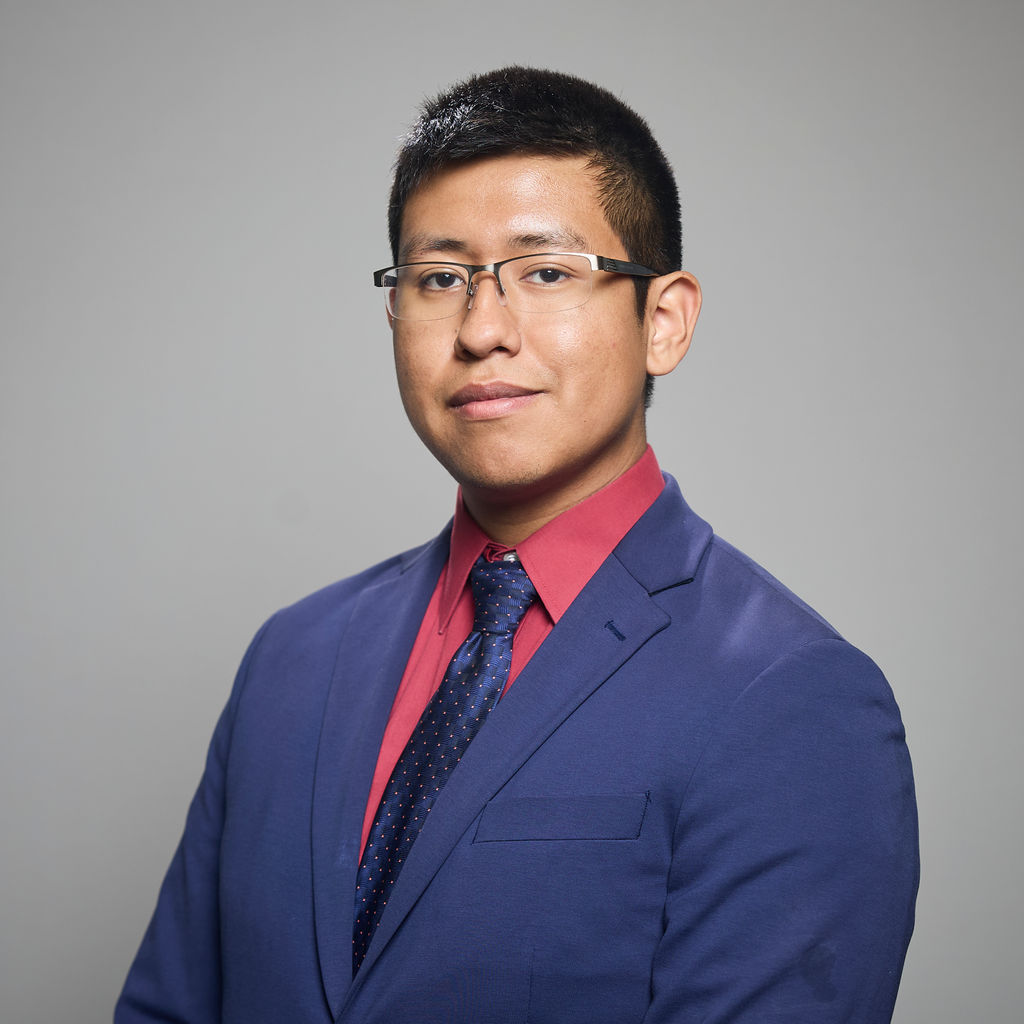
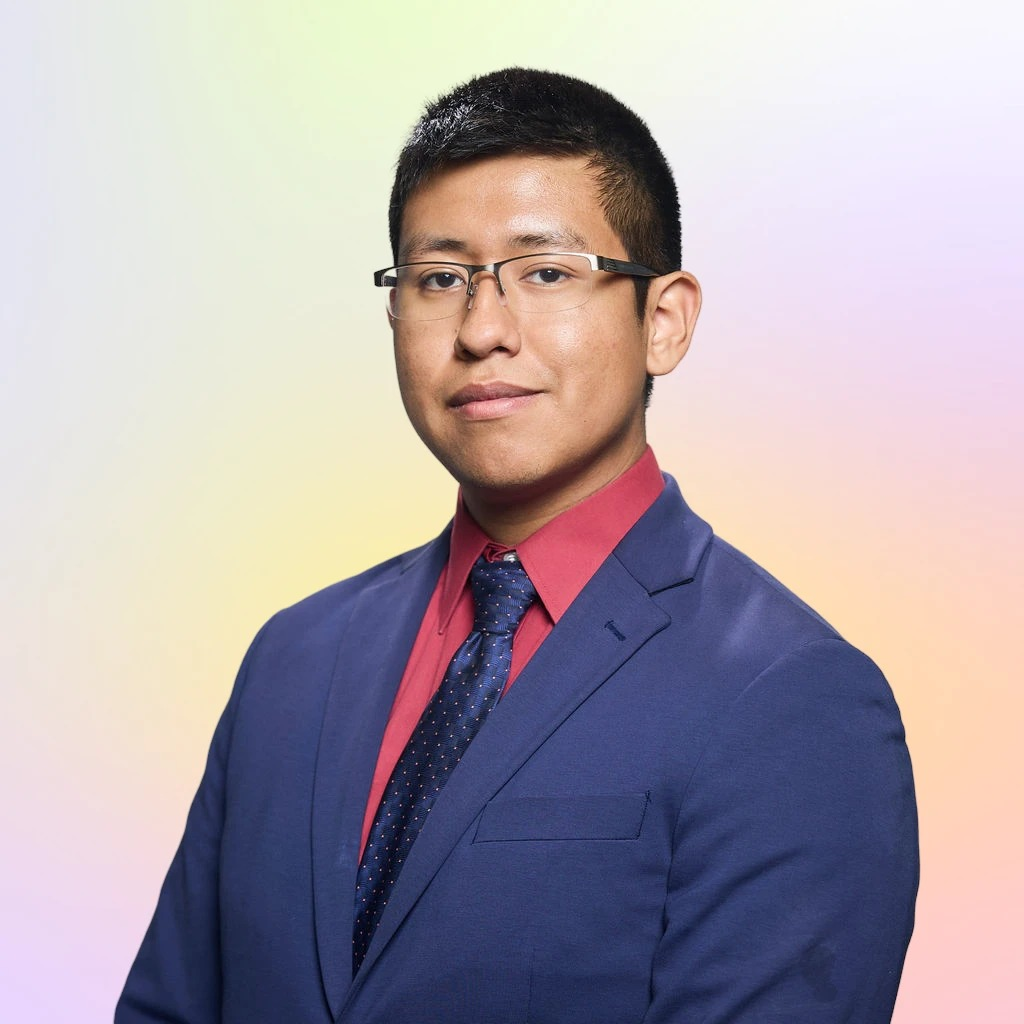
Redesign visual theme with trendy aura gradient palette
Match the site's vibe to the new gradient-backdrop headshot:
- Sample the gradient palette (sage, lavender, gold, coral,
  orchid, sunset) directly from the new headshot background
- Add a soft mesh-gradient wash behind the top of every page,
  fading to the base background by the end of the hero
- Frost the sticky nav with a backdrop blur so the gradient
  peeks through at the very top
- Give the brand mark, active nav underline, primary CTA
  buttons, headline accent text, headshot frame, and award
  flag badges the gradient treatment; keep small text/line
  accents on a single warm accent color for legibility
- Add a thin gradient top stripe to the resume/contact modals
- Swap the homepage headshot for the new gradient-background
  photo (old flat-gray version kept as hs1-prev-gray-2025.jpg)

Verified across desktop/mobile viewports and multiple pages
with a local Playwright render.

Claude-Session: https://claude.ai/code/session_0149JH6JdaVTgwvmDxfFYy3d

diff --git a/styles.css b/styles.css
@@ -3,17 +3,48 @@
    12-col underlay, Bauhaus-leaning, warm accent
    ============================================================ */
 .gs-wrap {
-  background: #ffffff;
+  background: var(--gs-bg);
   color: #111111;
   min-height: 100vh;
   font-family: 'IBM Plex Sans', 'Inter', sans-serif;
   --gs-line: #e5e5e5;
   --gs-mute: #737373;
   --gs-fg: #111111;
-  --gs-bg: #ffffff;
-  --gs-accent: #e35d2b;
+  --gs-bg: #fffdf9;
+  --gs-accent: #ea6a3f;
+
+  /* Aura gradient palette — sampled from headshot backdrop */
+  --grad-sage: #c7cdbd;
+  --grad-lavender: #e4defa;
+  --grad-gold: #ffcf3f;
+  --grad-coral: #f3988a;
+  --grad-orchid: #d89ae6;
+  --grad-sunset: #fd8678;
+  --gs-accent-grad: linear-gradient(135deg, var(--grad-gold) 0%, var(--grad-coral) 38%, var(--grad-sunset) 65%, var(--grad-orchid) 100%);
   position: relative;
 }
+
+/* Soft mesh-gradient wash behind the top of the page — fades to the page bg by the end of the hero */
+.gs-aura {
+  position: absolute;
+  top: 0; left: 0; right: 0;
+  height: 860px;
+  z-index: 0;
+  pointer-events: none;
+  opacity: 0.65;
+  background:
+    radial-gradient(circle at 8% 6%, var(--grad-sage) 0%, transparent 38%),
+    radial-gradient(circle at 92% 4%, var(--grad-lavender) 0%, transparent 42%),
+    radial-gradient(circle at 48% 46%, var(--grad-gold) 0%, transparent 38%),
+    radial-gradient(circle at 94% 52%, var(--grad-coral) 0%, transparent 42%),
+    radial-gradient(circle at 6% 70%, var(--grad-orchid) 0%, transparent 42%),
+    radial-gradient(circle at 52% 88%, var(--grad-sunset) 0%, transparent 40%);
+  -webkit-mask-image: linear-gradient(to bottom, black 0%, black 55%, transparent 100%);
+  mask-image: linear-gradient(to bottom, black 0%, black 55%, transparent 100%);
+  filter: blur(6px);
+}
+@media (max-width: 1024px) { .gs-aura { height: 620px; } }
+@media (max-width: 640px)  { .gs-aura { height: 520px; } }
 
 /* Faint 12-col grid underlay — visible only on hover via tweak */
 .gs-grid-underlay {
@@ -33,14 +64,16 @@
   display: grid; grid-template-columns: 1fr auto 1fr;
   align-items: center;
   padding: 0 2rem; height: 72px;
-  background: var(--gs-bg);
+  background: rgba(255, 253, 249, 0.78);
+  backdrop-filter: blur(14px) saturate(140%);
+  -webkit-backdrop-filter: blur(14px) saturate(140%);
   border-bottom: 1px solid var(--gs-line);
 }
 .gs-brand { display: flex; align-items: center; gap: 0.75rem; }
 .gs-brand-mark {
   width: 32px; height: 32px;
-  background: var(--gs-fg);
-  color: var(--gs-bg);
+  background: var(--gs-accent-grad);
+  color: #fff;
   display: grid; place-items: center;
   font-family: 'IBM Plex Mono', monospace; font-weight: 600; font-size: 0.85rem;
 }
@@ -61,7 +94,7 @@
 .gs-nav-btn.active::before {
   content: ''; position: absolute; left: 50%; bottom: 14px;
   transform: translateX(-50%);
-  width: 16px; height: 2px; background: var(--gs-accent);
+  width: 16px; height: 2px; background: var(--gs-accent-grad);
   animation: gsLine 0.3s ease-out;
 }
 @keyframes gsLine { from { width: 0; } to { width: 16px; } }
@@ -86,9 +119,9 @@
   padding: 0.55rem 0.9rem;
   background: var(--gs-fg); color: var(--gs-bg);
   border: none;
-  transition: background 0.2s;
+  transition: background 0.25s;
 }
-.gs-nav-cta:hover { background: var(--gs-accent); }
+.gs-nav-cta:hover { background: var(--gs-accent-grad); color: #1c1a16; }
 
 /* Page */
 .gs-page { max-width: 1280px; margin: 0 auto; padding: 0 2rem; position: relative; z-index: 2; }
@@ -108,7 +141,7 @@
   display: flex; gap: 0.85rem; align-items: center;
 }
 .gs-eyebrow .gs-dash {
-  width: 32px; height: 2px; background: var(--gs-accent);
+  width: 32px; height: 2px; background: var(--gs-accent-grad);
   display: inline-block;
   transform-origin: left;
 }
@@ -120,12 +153,17 @@
   letter-spacing: -0.025em;
   margin: 0 0 1.5rem;
 }
-.gs-h1 span.acc { color: var(--gs-accent); }
+.gs-h1 span.acc {
+  background: var(--gs-accent-grad);
+  background-size: 200% 200%;
+  -webkit-background-clip: text; background-clip: text;
+  color: transparent;
+}
 .gs-lead { font-size: 1.1rem; line-height: 1.6; color: #333; margin: 0 0 1.5rem; max-width: 60ch; }
 .gs-cta-row { display: flex; gap: 0.75rem; flex-wrap: wrap; }
-.gs-btn { font-family: 'IBM Plex Mono', monospace; font-size: 0.72rem; letter-spacing: 0.12em; text-transform: uppercase; padding: 0.65rem 1rem; border: 1px solid var(--gs-fg); background: transparent; color: var(--gs-fg); transition: background 0.2s, color 0.2s; }
-.gs-btn.solid { background: var(--gs-fg); color: var(--gs-bg); }
-.gs-btn:hover { background: var(--gs-accent); color: var(--gs-bg); border-color: var(--gs-accent); }
+.gs-btn { font-family: 'IBM Plex Mono', monospace; font-size: 0.72rem; letter-spacing: 0.12em; text-transform: uppercase; padding: 0.65rem 1rem; border: 1px solid var(--gs-fg); background: transparent; color: var(--gs-fg); transition: background 0.2s, color 0.2s, border-color 0.2s; }
+.gs-btn.solid { background: var(--gs-accent-grad); color: #1c1a16; border-color: transparent; }
+.gs-btn:hover { background: var(--gs-accent-grad); color: #1c1a16; border-color: transparent; }
 
 .gs-stat-stack { display: grid; grid-template-rows: repeat(4, 1fr); border: 1px solid var(--gs-line); }
 .gs-stat-row { display: grid; grid-template-columns: auto 1fr auto; gap: 0.75rem; align-items: center; padding: 0.85rem 1rem; border-bottom: 1px solid var(--gs-line); }
@@ -135,7 +173,14 @@
 .gs-stat-arrow { color: var(--gs-accent); font-family: 'IBM Plex Mono', monospace; font-size: 0.8rem; }
 
 /* Headshot slideshow (replaces hero stats) */
-.gs-slideshow { border: 1px solid var(--gs-line); background: var(--gs-bg); display: flex; flex-direction: column; }
+.gs-slideshow {
+  position: relative;
+  background: var(--gs-accent-grad);
+  padding: 2px;
+  display: flex; flex-direction: column;
+}
+.gs-slideshow > .gs-ss-head,
+.gs-slideshow > .gs-ss-foot { background: var(--gs-bg); }
 .gs-ss-head { display: flex; justify-content: space-between; align-items: center; padding: 0.6rem 0.85rem; border-bottom: 1px solid var(--gs-line); font-family: 'IBM Plex Mono', monospace; font-size: 0.62rem; letter-spacing: 0.15em; text-transform: uppercase; color: var(--gs-mute); }
 .gs-ss-head .gs-ss-count { color: var(--gs-fg); }
 .gs-ss-stage {
@@ -274,7 +319,7 @@
 /* Flag — minimal */
 .gs-flag {
   position: absolute; top: 12px; left: 12px; z-index: 5;
-  background: var(--gs-accent); color: #fff;
+  background: var(--gs-accent-grad); color: #1c1a16;
   font-family: 'IBM Plex Mono', monospace; font-size: 0.6rem;
   letter-spacing: 0.12em; text-transform: uppercase;
   padding: 0.3rem 0.55rem;
@@ -283,16 +328,16 @@
   background: transparent; color: var(--gs-fg);
   padding: 0; left: auto; right: 12px; top: 12px;
 }
-.gs-flag.dot::before { content: ''; display: inline-block; width: 8px; height: 8px; background: var(--gs-accent); margin-right: 0.4rem; transform: translateY(-1px); }
+.gs-flag.dot::before { content: ''; display: inline-block; width: 8px; height: 8px; border-radius: 50%; background: var(--gs-accent-grad); margin-right: 0.4rem; transform: translateY(-1px); }
 .gs-flag.dot { display: inline-flex; align-items: center; }
 .gs-flag.line {
   background: transparent; color: var(--gs-fg);
-  border-left: 3px solid var(--gs-accent);
+  border-left: 3px solid var(--grad-sunset);
   padding-left: 0.55rem;
 }
 .gs-flag.corner {
   top: 0; left: 0;
-  background: var(--gs-accent); color: #fff;
+  background: var(--gs-accent-grad); color: #1c1a16;
   padding: 0.4rem 0.7rem 0.4rem 0.55rem;
 }
 
@@ -351,6 +396,10 @@
   overflow: hidden;
   box-shadow: 0 30px 90px rgba(0,0,0,0.35);
 }
+.gs-resume-dialog::before {
+  content: ''; position: absolute; top: 0; left: 0; right: 0; height: 4px;
+  background: var(--gs-accent-grad); z-index: 1;
+}
 .gs-resume-close {
   position: absolute;
   top: 1rem;
@@ -390,10 +439,15 @@
   background: rgba(0,0,0,0.6);
 }
 .gs-contact-dialog {
+  position: relative;
   width: min(100%, 420px);
   background: var(--gs-bg);
   border: 1px solid var(--gs-fg);
   box-shadow: 0 20px 60px rgba(0,0,0,0.3);
+}
+.gs-contact-dialog::before {
+  content: ''; position: absolute; top: 0; left: 0; right: 0; height: 4px;
+  background: var(--gs-accent-grad);
 }
 .gs-contact-head {
   display: flex;
@@ -504,7 +558,7 @@
   text-align: left; cursor: pointer;
   transition: background 0.2s;
 }
-.gs-mobile-contact:hover { background: var(--gs-accent); }
+.gs-mobile-contact:hover { background: var(--gs-accent-grad); color: #1c1a16; }
 
 /* ============================================================
    Tablet — ≤ 1024px

diff --git a/data.jsx b/data.jsx
@@ -353,7 +353,7 @@ const MEMBERSHIPS = [
 ];
 
 const HEADSHOTS = [
-  { id: 'hs1', caption: 'Headshot',         date: '2025' },
+  { id: 'hs1', caption: 'Headshot',         date: '2026' },
   { id: 'hs2', caption: 'BNSF Trackathon — 1st Place Team',          date: '2022' },
   { id: 'hs3', caption: 'URC field, UTA Rover Team',               date: '2021' },
   { id: 'hs4', caption: 'Nissan Design Challenge — Grand Prize',   date: '2022' },

diff --git a/direction.jsx b/direction.jsx
@@ -280,6 +280,7 @@ function DirectionGridSystem({ flagStyle, showGrid }) {
 
   return (
     <div className="gs-wrap">
+      <div className="gs-aura" aria-hidden="true" />
       <div className={`gs-grid-underlay ${showGrid ? 'show' : ''}`}>
         {Array.from({length: 12}, (_, i) => <span key={i} />)}
       </div>
